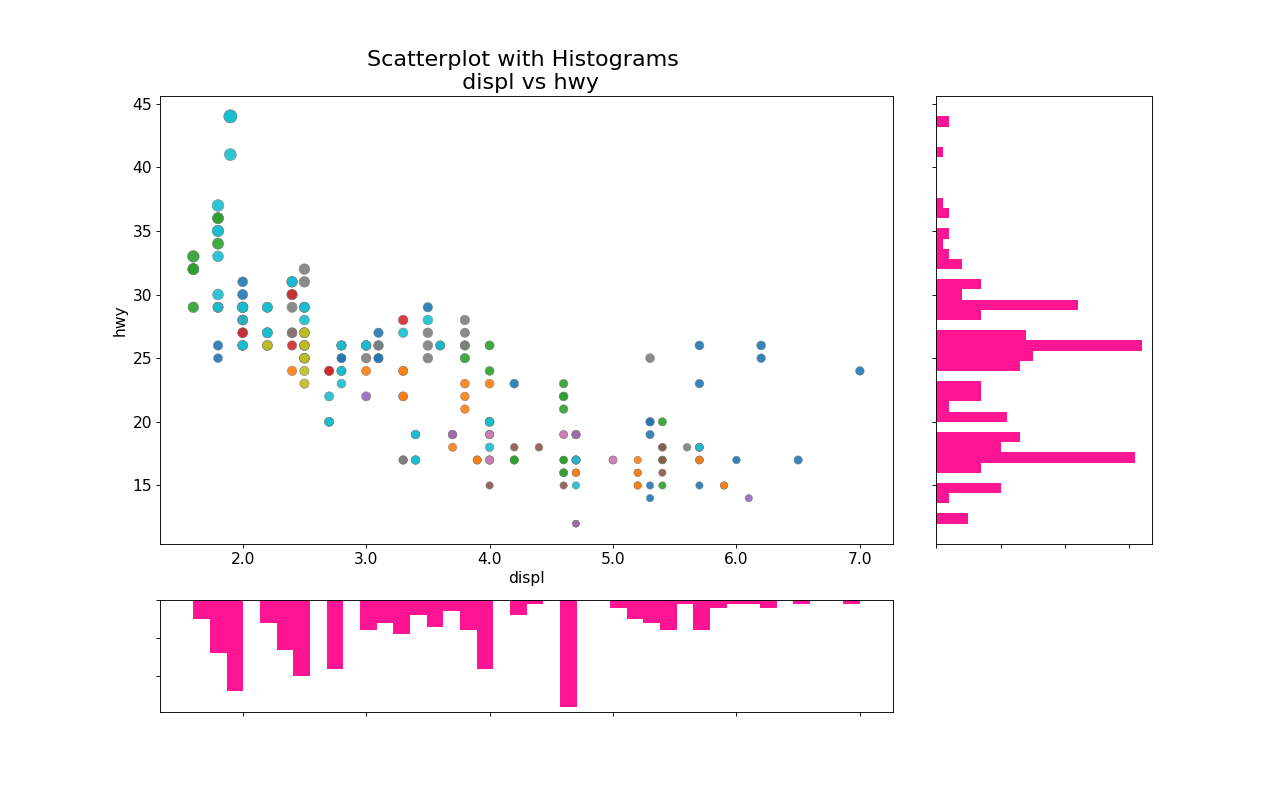
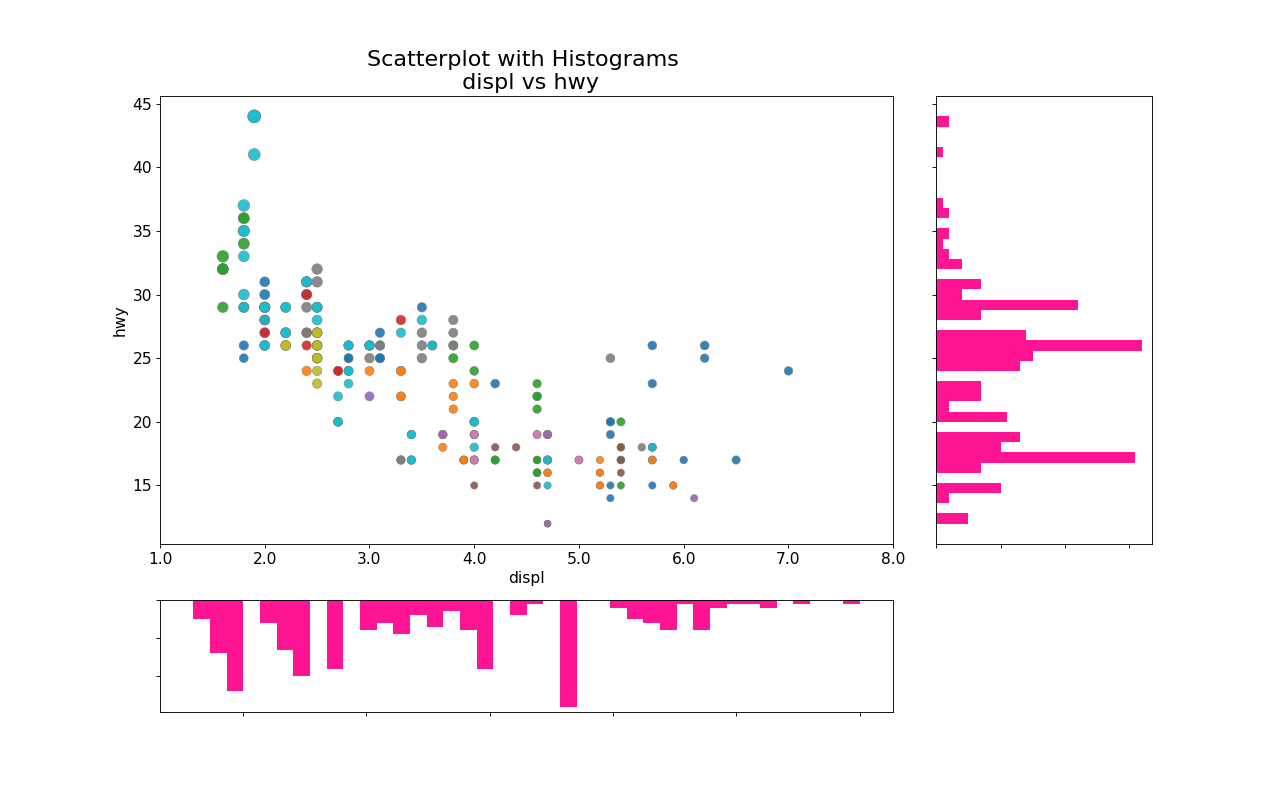
graficas y datos

diff --git a/miweb/panel/grafica.py b/miweb/panel/grafica.py
@@ -343,6 +343,8 @@ def gra_HistogramaM(c):
     for item in ([ax_main.xaxis.label, ax_main.yaxis.label] + ax_main.get_xticklabels() + ax_main.get_yticklabels()):
         item.set_fontsize(14)
     xlabels = ax_main.get_xticks().tolist()
+    #Limpiar
+    ax_main.set_xticks(ax_main.get_xticks())
     ax_main.set_xticklabels(xlabels)
     plt.savefig("./panel/static/panel/graf_HistogramaM.png")
     cad = c + '<p>Histograma Marginal</p>\n' + '<p><img src="/static/panel/graf_HistogramaM.png" /></p>\n' 
